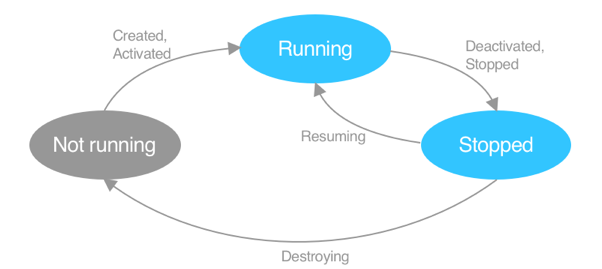
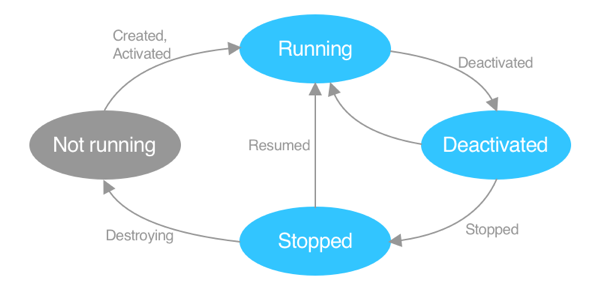
Feedback incorporated.

diff --git a/docs/fundamentals/app-lifecycle.md b/docs/fundamentals/app-lifecycle.md
@@ -6,15 +6,17 @@ ms.date: 12/13/2021
 
 # App lifecycle
 
-.NET Multi-platform App UI (.NET MAUI) apps generally have three execution states: *not running*, *running*, and *stopped*. .NET MAUI raises lifecycle cross-platform events on the `Window` class when an app transitions from the not running state to the running state, and the running state to the stopped state.
+.NET Multi-platform App UI (.NET MAUI) apps generally have three execution states: *not running*, *running*, *deactivated*, and *stopped*. .NET MAUI raises cross-platform lifecycle events on the `Window` class when an app transitions from the not running state to the running state, the running state to the deactivated state, the deactivated state to the stopped state, the stopped state to the running state, and the stopped state to the not running state.
+
+[!INCLUDE [docs under construction](~/includes/preview-note.md)]
 
 The following diagram shows an overview of the .NET MAUI app lifecycle:
 
 :::image type="content" source="media/app-lifecycle/app-lifecycle.png" alt-text=".NET MAUI app lifecycle" border="false":::
 
-In the diagram, the gray oval indicates that the app isn't loaded into memory. The light blue ovals indicate that the app is in memory. The arcs indicate events that are raised by .NET MAUI, that provide notifications to the running app.
+In the diagram, the gray oval indicates that the app isn't loaded into memory. The light blue ovals indicate that the app is in memory. Text on arcs indicates events that are raised by .NET MAUI, that provide notifications to the running app.
 
-The execution state of an app depends on the app's history. For example, when an app is installed for the first time, or a device is started, the app can be considered to be *not running*. When the app is started, the `Created` and `Activated` events are raised and the app is *running*. If the user switches to a different app, or returns to the device's Home screen, the `Deactivated` and `Stopped` events are raised and the app is *stopped*. If the user returns to the app, the `Resuming` event is raised and app is *running*. Alternatively, an app might be terminated by a user while it's running. In this situation the app is *stopped*, the `Destroying` event is raised and the app is *not running*. Similarly, a device might terminate an app while it's stopped, due to resource restrictions, and the `Destroying` event is raised and the app is *not running*.
+The execution state of an app depends on the app's history. For example, when an app is installed for the first time, or a device is started, the app can be considered to be *not running*. When the app is started, the `Created` and `Activated` events are raised and the app is *running*. If a different app window gains focus, the `Deactivated` event is raised and the app is *deactivated*. If the user switches switches to a different app or returns to the device's Home screen, so that the app window is no longer visible, the `Deactivated` and `Stopped` events are raised and the app is *stopped*. If the user returns to the app, the `Resuming` event is raised and app is *running*. Alternatively, an app might be terminated by a user while it's running. In this situation the app is *deactivated* then *stopped*, the `Destroying` event is raised, and the app is *not running*. Similarly, a device might terminate an app while it's stopped, due to resource restrictions, and the `Destroying` event is raised and the app is *not running*.
 
 In addition, .NET MAUI enables apps to be notified when platform lifecycle events are raised. For more information, see [Platform lifecycle events](#platform-lifecycle-events).
 
@@ -24,7 +26,7 @@ The `Window` class defines the following cross-platform lifecycle events:
 
 | Event | Description | Action to take |
 | -- | -- | -- |
-| `Created` | This event is raised after the native window has been created. At this point the cross-platform window will have a native window handler, but the window might not be visible yet. | Register any services that are needed before a window exists. |
+| `Created` | This event is raised after the native window has been created. At this point the cross-platform window will have a native window handler, but the window might not be visible yet. |  |
 | `Activated` | This event is raised when the window has been activated, and is, or will become, the focused window. |  |
 | `Deactivated` | This event is raised when the window is no longer the focused window. However, the window might still be visible. |  |
 | `Stopped` | This event is raised when the window is no longer visible. There's no guarantee that an app will resume from this state, because it may be terminated by the operating system. | Disconnect from any long running processes, or cancel any pending requests that might consume device resources. |
@@ -71,14 +73,13 @@ namespace MyMauiApp
 
             window.Created += (s, e) =>
             {
-                // Register services
+                // Custom logic
             };
 
             return window;
         }
     }
 }
-
 ```
 
 Alternatively, to consume the lifecycle overrides, create a class that derives from the `Window` class
@@ -136,7 +137,6 @@ The following table lists the .NET MAUI delegates that are invoked in response t
 | `OnPause` | `Android.App.Activity` | Invoked when an activity is going into the background, but has not yet been killed. | Always call the super class's implementation. |
 | `OnPostCreate` | `Android.App.Activity`, `Android.OS.Bundle?` | Invoked when activity startup is complete, after `OnStart` and `OnRestoreInstanceState` have been called. | Always call the super class's implementation. This is a system-only event that generally shouldn't be used by apps. |
 | `OnPostResume` | `Android.App.Activity` | Invoked when activity resume is complete, after `OnResume` has been called. | Always call the super class's implementation. This is a system-only event that generally shouldn't be used by apps. |
-| `OnPressingBack` | `Android.App.Activity` | Invoked when the activity has detected a press of the back key, but hasn't handled the press. | This is a .NET MAUI custom event.  |
 | `OnRequestPermissionsResult` | `Android.App.Activity`, `int`, `string[]`, `Android.Content.PM.Permission[]` | Invoked as a callback for the result from requesting permissions. |  |
 | `OnRestart` | `Android.App.Activity` | Invoked after `OnStop` when the current activity is being redisplayed to the user (the user has navigated back to it). | Always call the super class's implementation. |
 | `OnRestoreInstanceState` | `Android.App.Activity`, `Android.OS.Bundle` | Invoked after `OnStart` when the activity is being reinitialized from a previously saved state. |  |
@@ -355,15 +355,28 @@ The WinUI 3 [`Window.SizeChanged`](xref:Microsoft.UI.Xaml.Window.SizeChanged) ev
 - Register an event handler for the [`Window.SizeChanged`](xref:Microsoft.UI.Xaml.Window.SizeChanged) platform lifecycle event:
 
     ```csharp
-    #if WINDOWS
-                MauiWinUIApplication.Current.MainWindow.SizeChanged += OnSizeChanged;
-    #endif
+    using Microsoft.Maui.LifecycleEvents;
+    ...
+
+    public static MauiApp CreateMauiApp()
+    {
+          var builder = MauiApp.CreateBuilder();
+          builder
+                .UseMauiApp<App>()
+                .ConfigureLifecycleEvents(events =>
+                {
+#if WINDOWS
+                      events.AddWindows(windows => windows
+                             .OnWindowCreated(window =>
+                             {
+                                    window.SizeChanged += OnSizeChanged;
+                             }));
+#endif
+                });
+
+          return builder.Build();
+    }    
     ```
-
-    The `MauiWinUIApplication` type on Windows can be used to access the native app instance via its `Current` property. The `MainWindow` property exposes the native app window, which is of type `Microsoft.UI.Xaml.Window`.
-
-    > [!NOTE]
-    > The `MauiApplication` type on Android can be used to access the native app instance. Similarly, the `MauiUIApplicationDelegate` type on iOS can be used to access the native app instance.
 
 - In the event handler for the platform lifecycle event, retrieve the `ILifecycleEventService` instance and call its `InvokeEvents` method, specifying the platform event name as its argument:
 
@@ -372,13 +385,15 @@ The WinUI 3 [`Window.SizeChanged`](xref:Microsoft.UI.Xaml.Window.SizeChanged) ev
     ...
 
     #if WINDOWS
-            void OnSizeChanged(object sender, Microsoft.UI.Xaml.WindowSizeChangedEventArgs args)
+            static void OnSizeChanged(object sender, Microsoft.UI.Xaml.WindowSizeChangedEventArgs args)
             {
                 ILifecycleEventService service = MauiWinUIApplication.Current.Services.GetRequiredService<ILifecycleEventService>();
                 service.InvokeEvents(nameof(Microsoft.UI.Xaml.Window.SizeChanged));
             }
     #endif
     ```
+
+    The `MauiWinUIApplication` type on Windows can be used to access the native app instance via its `Current` property. The `MauiApplication` type on Android can be used to access the native app instance. Similarly, the `MauiUIApplicationDelegate` type on iOS can be used to access the native app instance.
 
     > [!WARNING]
     > Invoking an unregistered event, with the `InvokeEvents` method, doesn't throw an exception.
@@ -400,6 +415,12 @@ The WinUI 3 [`Window.SizeChanged`](xref:Microsoft.UI.Xaml.Window.SizeChanged) ev
                     .ConfigureLifecycleEvents(events =>
                     {
     #if WINDOWS
+                        events.AddWindows(windows => windows
+                               .OnWindowCreated(window =>
+                               {
+                                      window.SizeChanged += OnSizeChanged;
+                               }));
+
                         events.AddEvent(nameof(Microsoft.UI.Xaml.Window.SizeChanged), () => LogEvent("Window SizeChanged"));
     #endif
                         static void LogEvent(string eventName, string type = null)
